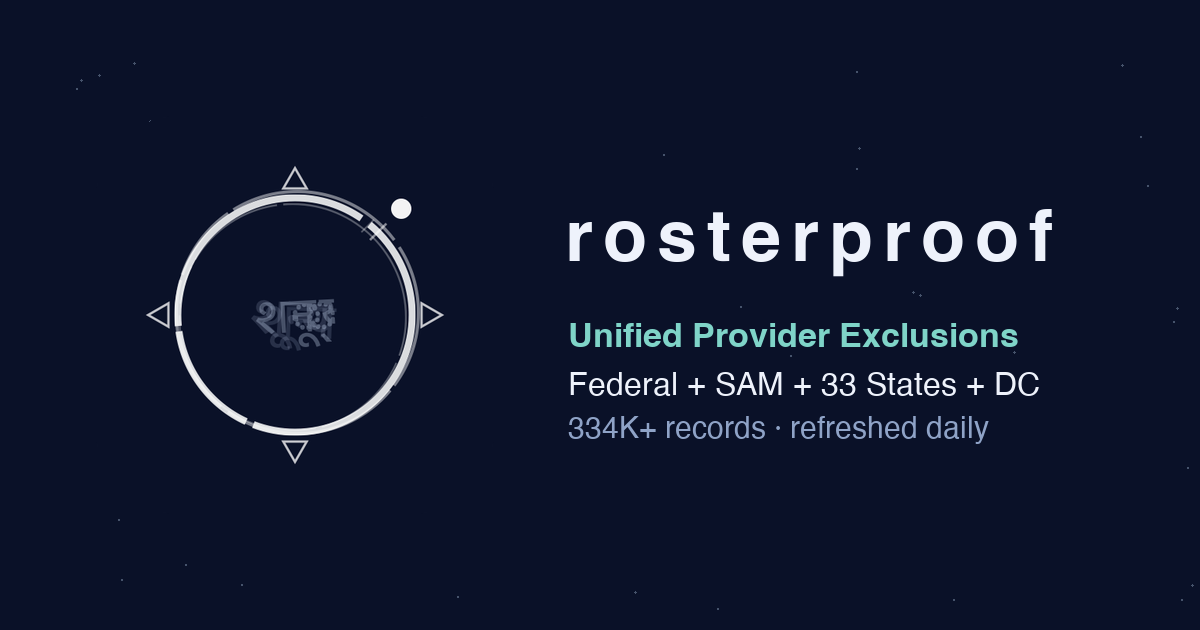
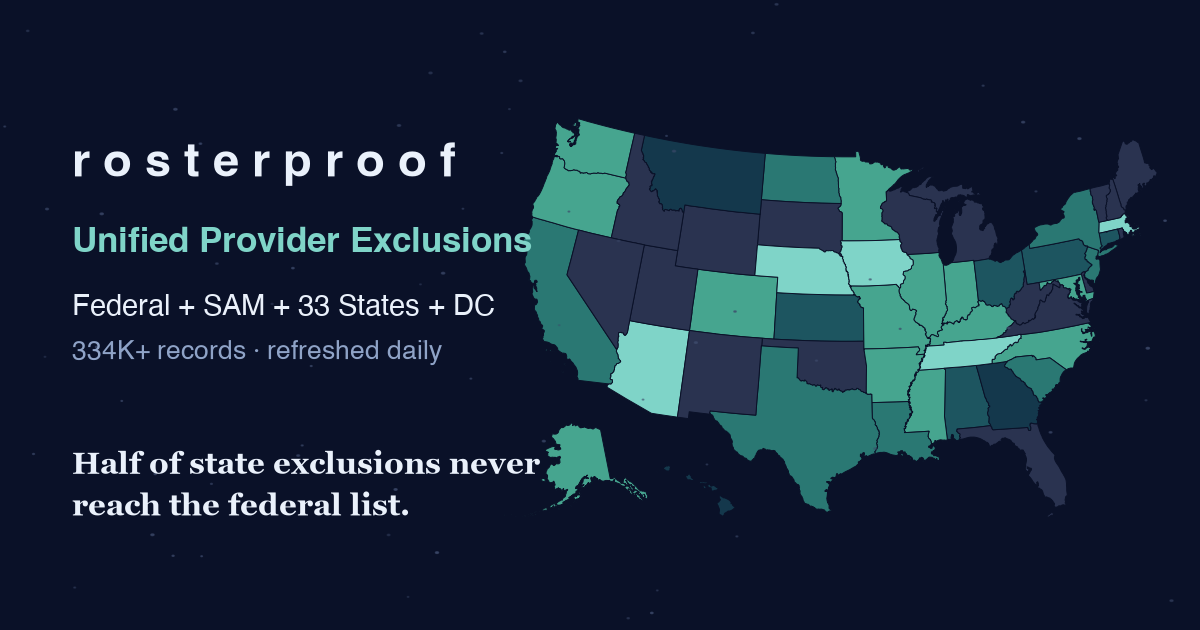
Interactive federal-gap map + top-10 chart + social graphics + og-image v2
- D3 choropleth (vendored d3/topojson/us-atlas — no CDN runtime deps):
  brand teal sequential ramp on dark slate, gray for no-list/unloaded
  with legend; resting 11px gap labels with contrast-computed ink per
  ramp step; hover/tap pop (150ms ease-out scale(2) anchored at the
  centroid, fill brightens one step + 1.5px stroke, other labels dim to
  40%, tooltip with name/gap/records/format badge); small NE states get
  leader lines to a right-edge label column; mobile: tap toggles,
  top-10 resting labels only. Flat design — scale + brightness only.
- Bar chart retitled 'Top ten: the biggest federal blind spots', now
  top-10 only.
- assets/social/: hero AZ 98.8% stat cards, branded gap-map PNGs, and
  top-10 chart PNGs (1200x1200 + 1200x627 each), all rendered from
  stats.json + the same vendored topology.
- og-image v2: map thumbnail as background element beside the wordmark.
- stats.json: per-state source_format for the tooltip badges.

Claude-Session: https://claude.ai/code/session_01PXfHoMXCHd5UrzFLypzow7

Changed region(s): [[0.0617, 0.181, 0.9558, 0.8143], [0.0617, 0.7841, 0.3392, 0.8444], [0.5858, 0.7841, 0.6167, 0.8143]]

diff --git a/index.html b/index.html
@@ -32,6 +32,17 @@ h1{font-size:44px;letter-spacing:8px;font-weight:500;margin:0 0 10px}
 .card p{color:#b8c4de;line-height:1.7;margin:0}
 .badge{display:inline-block;background:#16233f;color:#7fd4c8;border:1px solid #1f3b5c;font-size:12px;letter-spacing:1px;padding:4px 12px;border-radius:999px;margin-bottom:14px}
 a{color:#7fd4c8}
+.mapcard{background:#111a36;border:1px solid #2f3b55;border-radius:14px;padding:18px 18px 8px;margin-top:18px;position:relative}
+.mapcard svg{width:100%;height:auto;display:block}
+.gm-state{stroke:#0a1128;stroke-width:.75;cursor:pointer;transition:filter .15s ease-out}
+.gm-label{font-size:11px;font-variant-numeric:tabular-nums;pointer-events:none;transition:opacity .15s ease-out}
+.gm-leader{stroke:#3d4a6b;stroke-width:1;fill:none}
+.gm-legend{display:flex;flex-wrap:wrap;gap:14px;align-items:center;padding:10px 6px 8px;color:#8fa3c7;font-size:12px}
+.gm-legend .sw{display:inline-block;width:14px;height:14px;border-radius:3px;margin-right:5px;vertical-align:-2px}
+#map-tip{position:absolute;display:none;background:#0d1530;border:1px solid #2f3b55;border-radius:8px;
+  padding:8px 12px;font-size:12.5px;color:#c7d2ea;pointer-events:none;z-index:5;max-width:230px;text-align:left}
+#map-tip b{color:#e8ecf4}
+#map-tip .fmtchip{font-size:10.5px;padding:2px 8px;margin-top:4px;display:inline-block}
 .fmtcard{background:#111a36;border:1px solid #2f3b55;border-radius:14px;padding:22px 32px;margin-top:24px;text-align:left}
 .fmtcard h3{font-size:17px;margin:0 0 10px;color:#e8ecf4}
 .fmtchips{display:flex;flex-wrap:wrap;gap:8px;margin:0 0 12px}
@@ -125,11 +136,21 @@ query the <code>PUBLISHED_V1</code> views in minutes. Free, no forms.</p>
 <p class="muted-line">Not on Snowflake? <a href="mailto:[email redacted]">[email redacted]</a> — we’ll set you up with other access options.</p>
 </div>
 
-<h2 class="sec">The federal gap, state by state</h2>
+<h2 class="sec">The federal gap, on the map</h2>
 <p class="secnote">Share of each state's active exclusions that never appear on the federal LEIE.
-Live from the published dataset — refreshed daily<span id="st-asof"></span>.</p>
+Live from the published dataset — refreshed daily<span id="st-asof"></span>. Hover or tap a state.</p>
+<div class="mapcard">
+<svg id="gapmap" viewBox="0 0 1085 620" role="img" aria-label="US map of per-state federal exclusion gap"></svg>
+<div class="gm-legend" id="gm-legend"></div>
+<div id="map-tip"></div>
+<noscript><p class="secnote">Enable JavaScript for the interactive map.</p></noscript>
+</div>
+
+<h2 class="sec">Top ten: the biggest federal blind spots</h2>
+<p class="secnote">The ten states where the largest share of active exclusions is missing from the
+federal LEIE — the compliance exposure a federal-only screen never sees.</p>
 <div class="gapchart" id="gapchart">
-<noscript><p class="secnote">Enable JavaScript for the live per-state chart, or see the dataset's FEED_INFO.</p></noscript>
+<noscript><p class="secnote">Enable JavaScript for the live chart, or see the dataset's FEED_INFO.</p></noscript>
 </div>
 
 <h2 class="sec">How matching works: four tiers, strongest first</h2>
@@ -164,7 +185,7 @@ fetch('stats.json').then(r => r.json()).then(d => {
   }
   document.getElementById('st-asof').textContent = ' · as of ' + d.last_refresh_utc.slice(0, 10) + ' UTC';
   const chart = document.getElementById('gapchart');
-  d.state_gaps.forEach(g => {
+  d.state_gaps.slice(0, 10).forEach(g => {
     const row = document.createElement('div');
     row.className = 'gaprow';
     row.setAttribute('data-tip', g.state + ': ' + fmt(g.active_records) + ' active exclusions, ' + g.gap_pct + '% not on the federal LEIE');
@@ -195,5 +216,161 @@ RosterProof · <a href="attribution.html">Attribution &amp; Notices</a> · <a hr
 <br><img src="/shoonya-logo.png" alt="Shoonya" width="40" height="40" style="margin-top:14px;opacity:.75;max-width:100%"><br><span class="legal">© 2026 Shoonya — RosterProof is a Shoonya product</span>
 </footer>
 </div>
+<script src="/assets/vendor/d3.v7.min.js"></script>
+<script src="/assets/vendor/topojson-client.min.js"></script>
+<script>
+(function () {
+  const FIPS = {'01':'AL','02':'AK','04':'AZ','05':'AR','06':'CA','08':'CO','09':'CT','10':'DE',
+    '11':'DC','12':'FL','13':'GA','15':'HI','16':'ID','17':'IL','18':'IN','19':'IA','20':'KS',
+    '21':'KY','22':'LA','23':'ME','24':'MD','25':'MA','26':'MI','27':'MN','28':'MS','29':'MO',
+    '30':'MT','31':'NE','32':'NV','33':'NH','34':'NJ','35':'NM','36':'NY','37':'NC','38':'ND',
+    '39':'OH','40':'OK','41':'OR','42':'PA','44':'RI','45':'SC','46':'SD','47':'TN','48':'TX',
+    '49':'UT','50':'VT','51':'VA','53':'WA','54':'WV','55':'WI','56':'WY'};
+  const NAMES = {AL:'Alabama',AK:'Alaska',AZ:'Arizona',AR:'Arkansas',CA:'California',CO:'Colorado',
+    CT:'Connecticut',DE:'Delaware',DC:'District of Columbia',FL:'Florida',GA:'Georgia',HI:'Hawaii',
+    ID:'Idaho',IL:'Illinois',IN:'Indiana',IA:'Iowa',KS:'Kansas',KY:'Kentucky',LA:'Louisiana',
+    ME:'Maine',MD:'Maryland',MA:'Massachusetts',MI:'Michigan',MN:'Minnesota',MS:'Mississippi',
+    MO:'Missouri',MT:'Montana',NE:'Nebraska',NV:'Nevada',NH:'New Hampshire',NJ:'New Jersey',
+    NM:'New Mexico',NY:'New York',NC:'North Carolina',ND:'North Dakota',OH:'Ohio',OK:'Oklahoma',
+    OR:'Oregon',PA:'Pennsylvania',RI:'Rhode Island',SC:'South Carolina',SD:'South Dakota',
+    TN:'Tennessee',TX:'Texas',UT:'Utah',VT:'Vermont',VA:'Virginia',WA:'Washington',
+    WV:'West Virginia',WI:'Wisconsin',WY:'Wyoming'};
+  const FMT = {CSV:'CSV',TSV:'CSV',XLSX:'Excel',XLS:'Excel',PDF:'PDF',JSON:'JSON endpoint',HTML_TABLE:'Portal'};
+  const RAMP = ['#14384c','#1d5560','#2a7873','#46a58f','#7fd4c8'];
+  const BRIGHT = ['#1d5560','#2a7873','#46a58f','#7fd4c8','#a5e6dc'];  // one step up
+  const INK  = ['#eaf1fb','#eaf1fb','#eaf1fb','#0a1128','#0a1128'];
+  const GRAY = '#2a3350';
+  const SMALL = ['CT','NJ','DE','MD','DC','MA','RI','NH','VT'];   // leader-line cluster
+
+  const step = g => g >= 80 ? 4 : g >= 60 ? 3 : g >= 40 ? 2 : g >= 20 ? 1 : 0;
+  const isMobile = () => window.matchMedia('(max-width:640px)').matches;
+
+  Promise.all([
+    fetch('stats.json').then(r => r.json()),
+    fetch('/assets/vendor/states-albers-10m.json').then(r => r.json())
+  ]).then(([stats, topo]) => {
+    const gaps = {};
+    stats.state_gaps.forEach(g => gaps[g.state] = g);
+    const top10 = stats.state_gaps.slice(0, 10).map(g => g.state);
+
+    const svg = d3.select('#gapmap');
+    const path = d3.geoPath();
+    const states = topojson.feature(topo, topo.objects.states).features;
+    const gMap = svg.append('g');
+    const gLead = svg.append('g');
+    const gLab = svg.append('g');
+    const tip = document.getElementById('map-tip');
+    const card = document.querySelector('.mapcard');
+    let focused = null;
+
+    const meta = {};   // postal -> {d: gapdata|null, centroid, stepIdx, path, label}
+
+    states.forEach(f => {
+      const postal = FIPS[f.id];
+      if (!postal) return;
+      const g = gaps[postal] || null;
+      const idx = g ? step(g.gap_pct) : -1;
+      meta[postal] = { d: g, stepIdx: idx, centroid: path.centroid(f) };
+      meta[postal].path = gMap.append('path')
+        .attr('d', path(f))
+        .attr('class', 'gm-state')
+        .attr('fill', g ? RAMP[idx] : GRAY)
+        .on('mouseenter', () => { if (!isMobile()) focus(postal); })
+        .on('mouseleave', () => { if (!isMobile()) blur(); })
+        .on('click', ev => { ev.stopPropagation();
+          if (focused === postal) blur(); else focus(postal); });
+    });
+
+    // resting labels: loaded, non-small states (mobile: top-10 only)
+    const smallLoaded = SMALL.filter(p => meta[p] && meta[p].d);
+    Object.keys(meta).forEach(postal => {
+      const m = meta[postal];
+      if (!m.d || SMALL.includes(postal)) return;
+      if (isMobile() && !top10.includes(postal)) return;
+      m.label = gLab.append('text')
+        .attr('class', 'gm-label')
+        .attr('transform', `translate(${m.centroid[0]},${m.centroid[1]})`)
+        .attr('text-anchor', 'middle').attr('dy', '0.35em')
+        .attr('fill', INK[m.stepIdx])
+        .text(m.d.gap_pct.toFixed(1));
+    });
+
+    // small NE cluster: leader lines to a right-edge label column
+    smallLoaded.sort((a, b) => meta[a].centroid[1] - meta[b].centroid[1]);
+    smallLoaded.forEach((postal, i) => {
+      const m = meta[postal];
+      const lx = 1000, ly = 120 + i * 30;
+      if (!isMobile()) {
+        gLead.append('polyline').attr('class', 'gm-leader')
+          .attr('points', `${m.centroid[0]},${m.centroid[1]} ${lx - 8},${ly}`);
+      }
+      m.labelXY = [lx, ly];
+      m.label = gLab.append('text')
+        .attr('class', 'gm-label')
+        .attr('transform', `translate(${lx},${ly})`)
+        .attr('text-anchor', 'start').attr('dy', '0.35em')
+        .attr('fill', '#c7d2ea')
+        .style('display', isMobile() ? 'none' : null)
+        .text(`${postal} ${m.d.gap_pct.toFixed(1)}`)
+        .style('cursor', 'pointer')
+        .style('pointer-events', 'all')
+        .on('mouseenter', () => { if (!isMobile()) focus(postal); })
+        .on('mouseleave', () => { if (!isMobile()) blur(); });
+    });
+
+    function focus(postal) {
+      const m = meta[postal];
+      if (!m || !m.d) { blur(); return; }
+      blur(false);
+      focused = postal;
+      m.path.attr('fill', BRIGHT[m.stepIdx])
+            .attr('stroke', '#cfeee8').attr('stroke-width', 1.5).raise();
+      gLab.selectAll('text').transition().duration(150).ease(d3.easeCubicOut)
+          .style('opacity', 0.4);
+      if (m.label) {
+        const [cx, cy] = m.labelXY || m.centroid;
+        m.label.raise().transition().duration(150).ease(d3.easeCubicOut)
+          .style('opacity', 1).style('font-weight', 700)
+          .attr('transform', `translate(${cx},${cy}) scale(2)`);
+      }
+      const fmt = FMT[m.d.source_format] || m.d.source_format || '';
+      tip.innerHTML = `<b>${NAMES[postal]}</b><br>${m.d.gap_pct.toFixed(1)}% not on the federal LEIE<br>` +
+        `${m.d.active_records.toLocaleString('en-US')} active exclusions` +
+        (fmt ? `<br><span class="fmtchip">${fmt}</span>` : '');
+      tip.style.display = 'block';
+      const r = card.getBoundingClientRect();
+      const pt = m.labelXY || m.centroid;
+      const sx = r.width / 1085;
+      tip.style.left = Math.min(pt[0] * sx + 24, r.width - 240) + 'px';
+      tip.style.top = Math.max(pt[1] * sx * (620 / 620) - 10, 8) + 'px';
+    }
+
+    function blur(hideTip = true) {
+      if (focused) {
+        const m = meta[focused];
+        m.path.attr('fill', RAMP[m.stepIdx]).attr('stroke', null).attr('stroke-width', null);
+        if (m.label) {
+          const [cx, cy] = m.labelXY || m.centroid;
+          m.label.transition().duration(150).ease(d3.easeCubicOut)
+            .style('font-weight', null)
+            .attr('transform', `translate(${cx},${cy}) scale(1)`);
+        }
+        focused = null;
+      }
+      gLab.selectAll('text').transition().duration(150).ease(d3.easeCubicOut).style('opacity', 1);
+      if (hideTip) tip.style.display = 'none';
+    }
+    document.addEventListener('click', () => { if (focused) blur(); });
+
+    // legend
+    const legend = document.getElementById('gm-legend');
+    const bands = ['under 20%', '20–40%', '40–60%', '60–80%', '80%+'];
+    legend.innerHTML = bands.map((b, i) =>
+      `<span><span class="sw" style="background:${RAMP[i]}"></span>${b}</span>`).join('') +
+      `<span><span class="sw" style="background:${GRAY}"></span>no state list published, or not yet loaded</span>` +
+      `<span style="margin-left:auto">gap % = share of that state's active exclusions absent from the federal LEIE</span>`;
+  }).catch(e => console.error('map failed', e));
+})();
+</script>
 </body>
 </html>